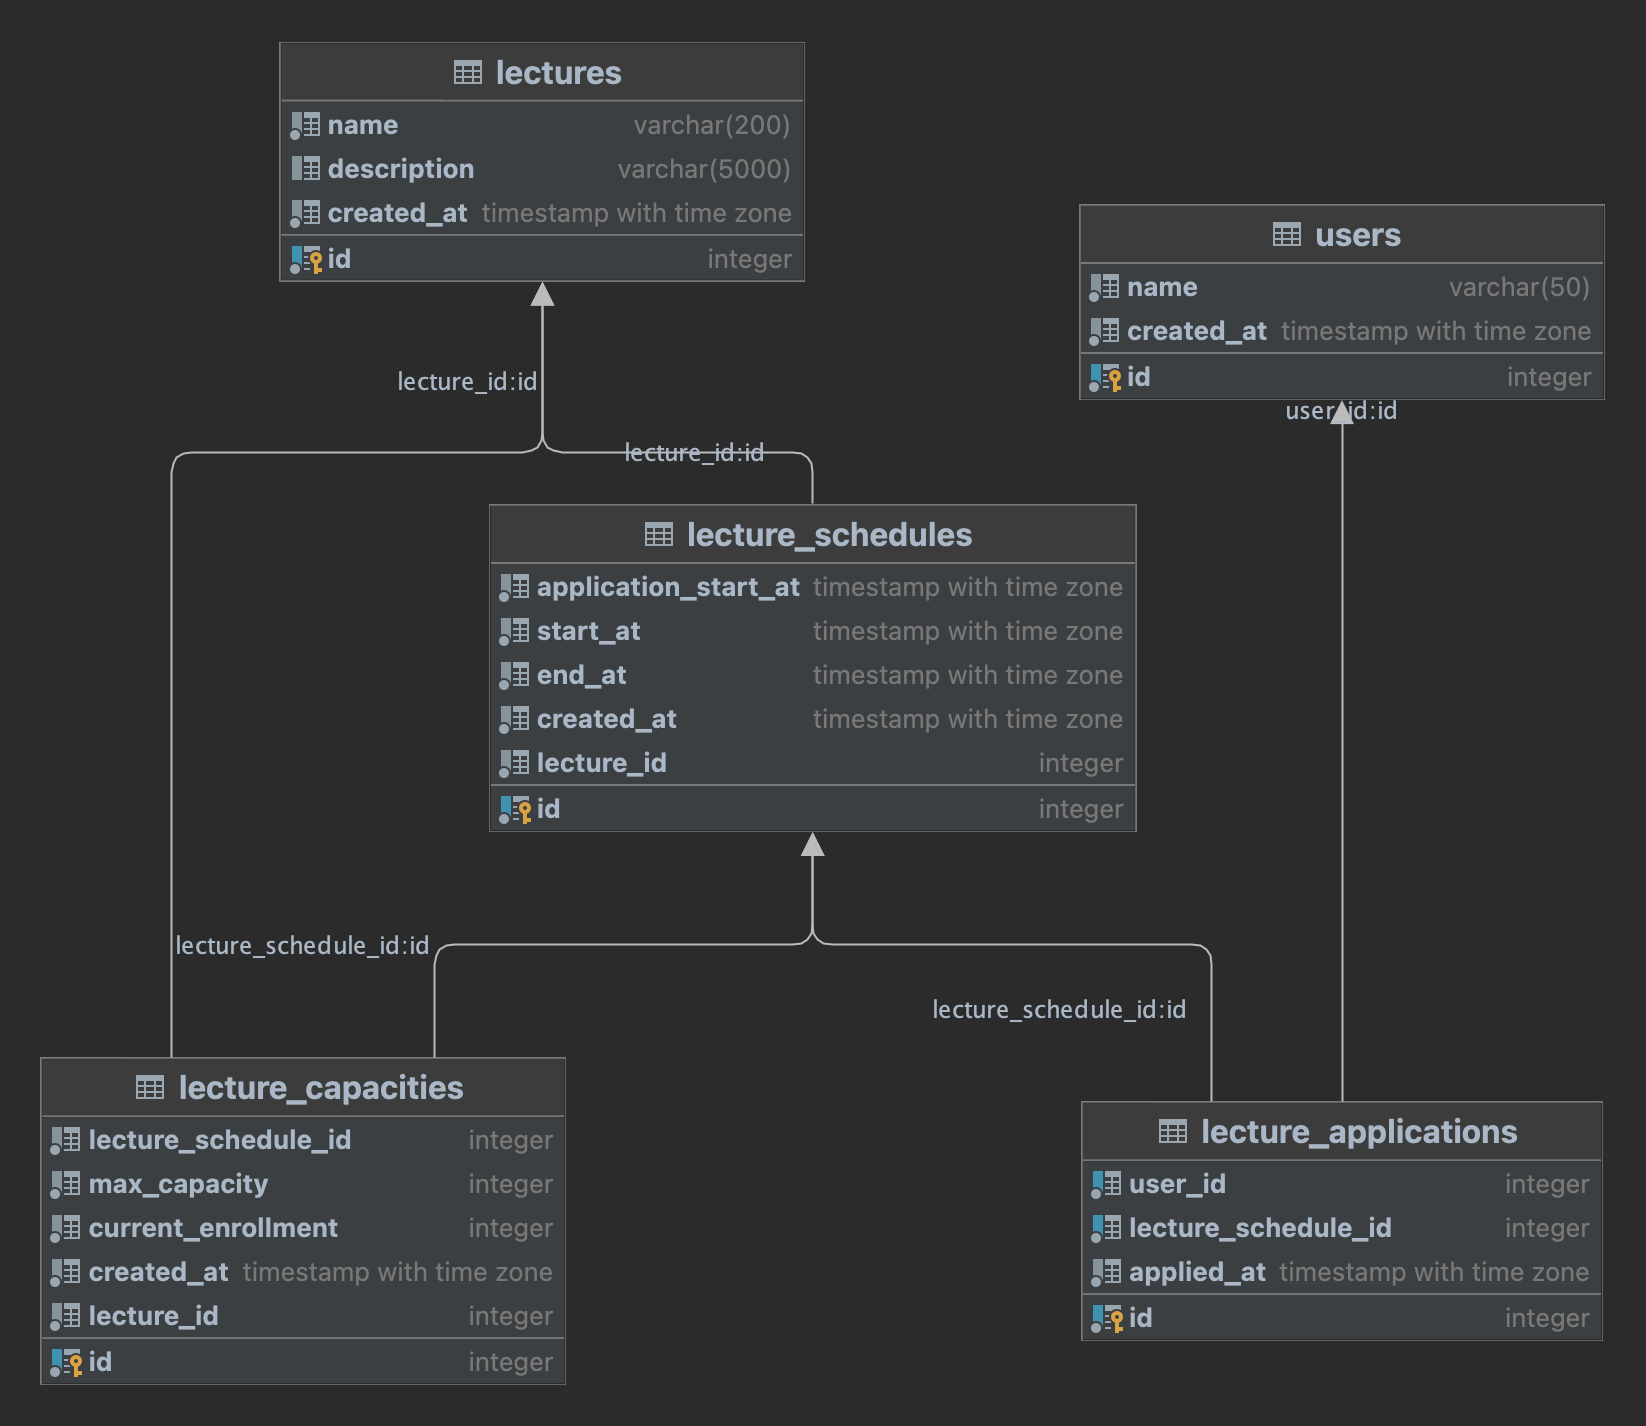
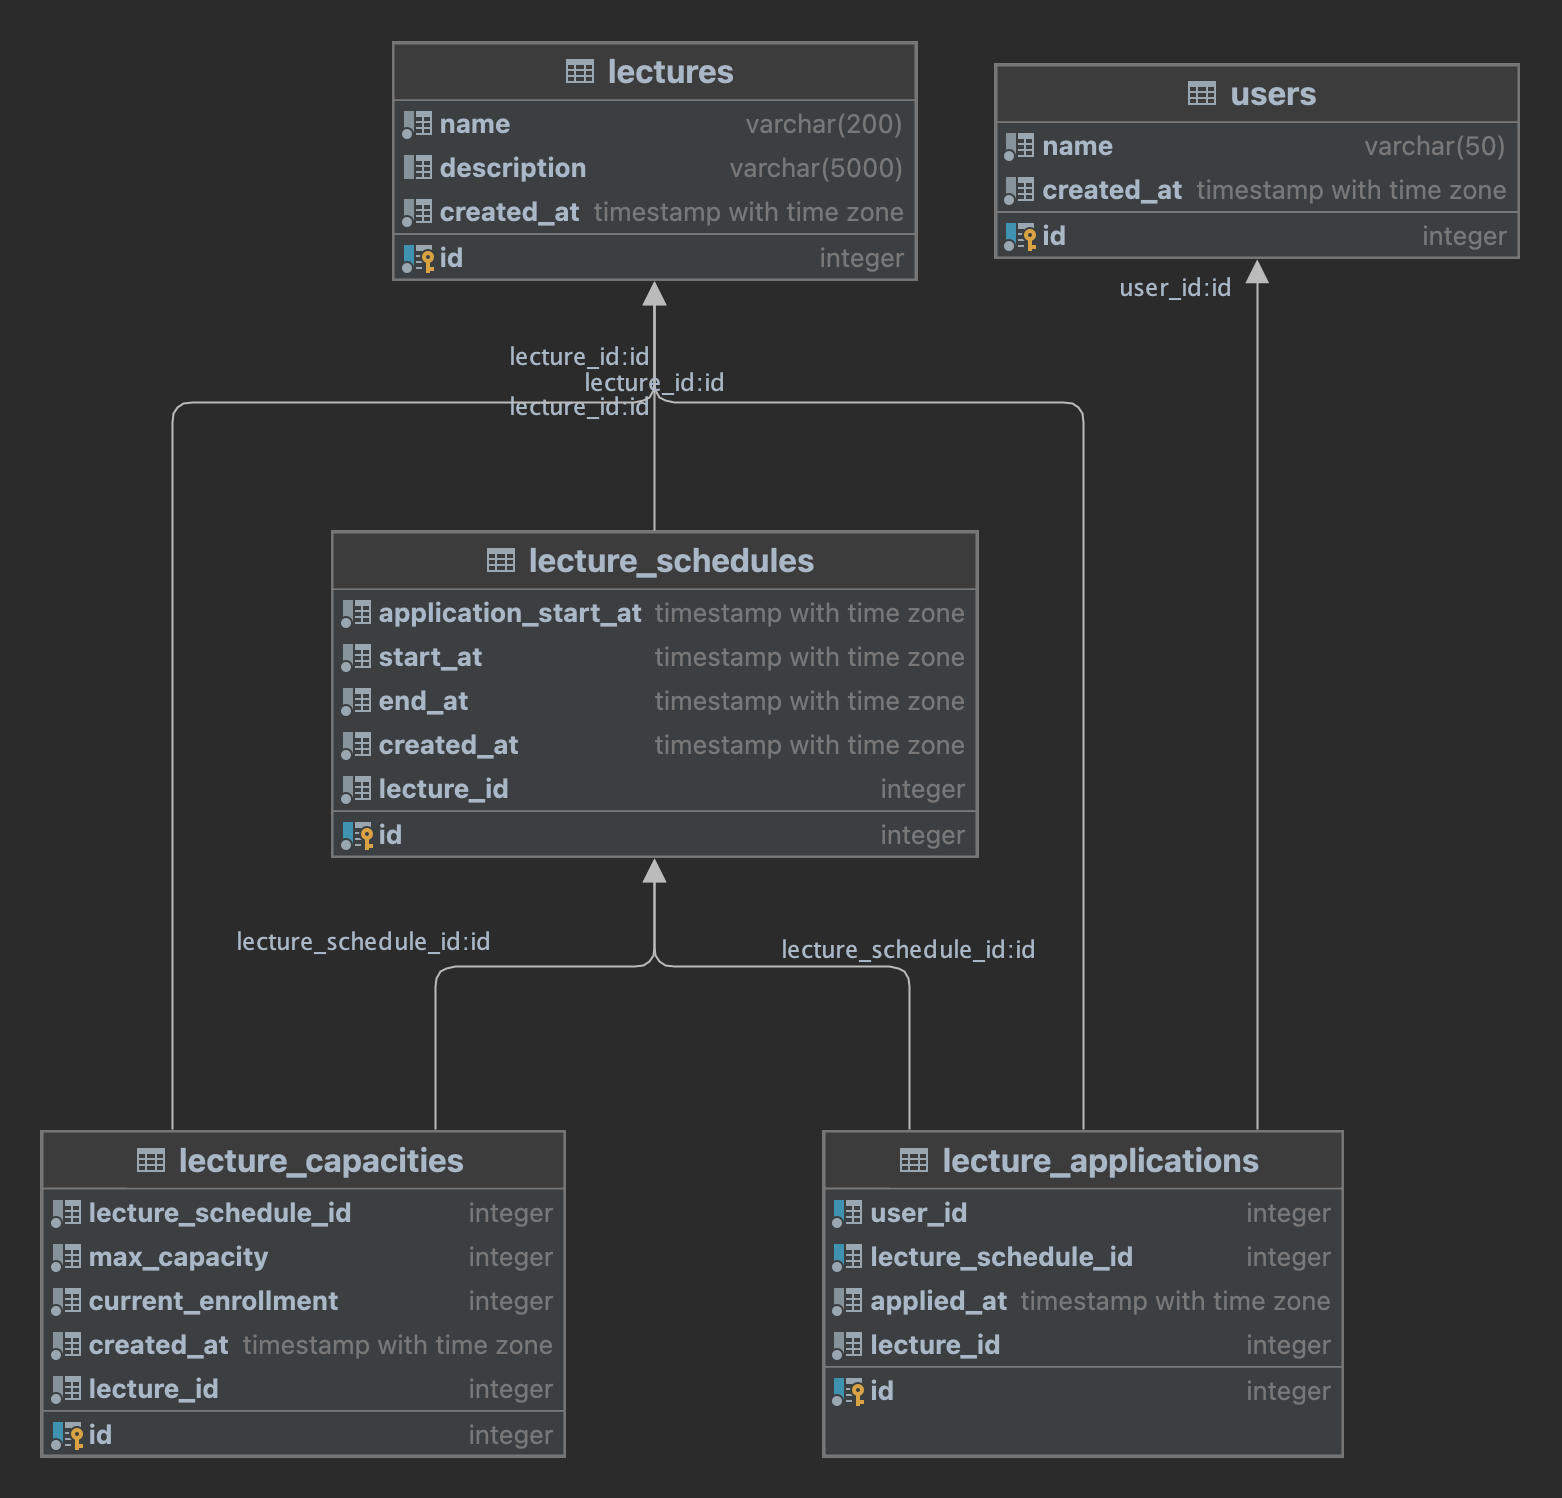
docs: README 파일 및 ERD 수정

diff --git a/README.md b/README.md
@@ -2,10 +2,15 @@
 
 ## 개요
 
-선착순 수강 신청 시스템을 구현하기 위한 백엔드 애플리케이션입니다.
+선착순 수강 신청 시스템을 구현하기 위한 백엔드 애플리케이션입니다. 다수의 서버 인스턴스 환경에서도 동시성 문제가 발생하지 않게 비즈니스 로직을 구성하는게 핵심이었습니다.
 
 ## 주요 고려 사항
 
+- 아키텍처 설계
+  - Clean + Layered 방식으로 프로젝트 구조를 설계했습니다.
+  - UseCase를 Service Facade 역할로 사용해 서비스 순환 참조가 발생할 수 있는 상황을 줄였습니다.
+  - 각각의 레이어 사이에 Interface를 통한 추상화로 의존성을 최소화 했습니다.
+  - Database Entity와 Domain Entity를 분리하여 도메인을 보호하고 추후 변경의 용이성을 더했습니다.
 - 동시성 제어를 위한 비관적 락 사용
   - 선착순 수강 신청 서비스에 성격상 특정 시간에 트래픽이 몰려 충돌이 많이 발생할 것으로 예상되었습니다.
   - 충돌이 많이 발생할 경우 낙관적 락은 에러 핸들링 혹은 재시도 로직등을 고려해야 하며, 이로 인해 성능이 저하될 수 있다고 판단했습니다.
@@ -13,7 +18,8 @@
 - 데이터 베이스 설계 (ERD)
   - 비관적 락을 통한 동시성 처리로 인해 DeadLock 등의 문제가 발생하지 않게 고려했습니다.
   - 강의의 최대 수용 인원과 현재 수강 신청 인원만을 따로 관리하는 `lecture_capacities` 테이블을 통해 최소한의 리소스로 락을 제어했습니다.
-  - `lecture_capacities` 테이블에서 일부 역정규화 (lecture_id)를 통해 Join을 줄이는 방향을 고려했습니다.
+  - `lecture_capacities`, `lecture_applications` 테이블에서 일부 역정규화 (lecture_id)를 통해 Join을 줄이는 방향을 고려했습니다.
+  - FK를 만들지 않고 ORM에 관계만 명시하여 추후 발생 가능한 성능 이슈를 줄였습니다.
 
 ## ERD 다이어그램
 
